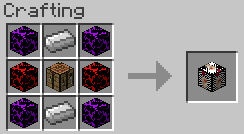
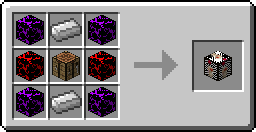
Clickable crafting grids

diff --git a/docs/blocks/synthesistable.md b/docs/blocks/synthesistable.md
@@ -10,13 +10,22 @@ The synthesis table is an essential block in Kingdom Keys, used to create almost
 
 They can be crafted like so:
 
-![Crafting](../images/crafting/synthesis_table.png)
-
-| |Crafting |
-:- | :-: | -:
-[Hard Blox](hardblox.md)|[Iron Ingot](http://minecraft.gamepedia.com/Iron_Ingot)|[Hard Blox](hardblox.md)
-[Normal Blox](normalblox.md)|[Crafting Table](http://minecraft.gamepedia.com/Crafting_Table)|[Normal Blox](normalblox.md)
-[Hard Blox](hardblox.md)|[Iron Ingot](http://minecraft.gamepedia.com/Iron_Ingot)|[Hard Blox](hardblox.md)
+<img src="../images/crafting/synthesis_table.png" usemap="#items">
+<map name="items">
+    <area shape="rect" coords="14,14,46,46" href="hardblox">
+    <area shape="rect" coords="50,14,82,46" href="http://minecraft.gamepedia.com/Iron_Ingot">
+    <area shape="rect" coords="86,14,118,46" href="hardblox">
+    
+    <area shape="rect" coords="14,50,46,82" href="normalblox">
+    <area shape="rect" coords="50,50,82,82" href="http://minecraft.gamepedia.com/Crafting_Table">
+    <area shape="rect" coords="86,50,118,82" href="normalblox">
+    
+    <area shape="rect" coords="14,86,46,118" href="hardblox">
+    <area shape="rect" coords="50,86,82,118" href="http://minecraft.gamepedia.com/Iron_Ingot">
+    <area shape="rect" coords="86,86,118,118" href="hardblox">
+    
+    <area shape="rect" coords="194,42,242,90" href="synthesistable">
+</map>
 
 ## Interface
 

diff --git a/docs/blocks/blastblox.md b/docs/blocks/blastblox.md
@@ -24,9 +24,3 @@ The Blast Blox is a Bug Blox which acts similarly to TNT, however it is far more
     
     <area shape="rect" coords="194,42,242,90" href="blastblox">
 </map>
-
-| |Crafting |
-:- | :-: | -:
-[Normal Blox](normalblox.md)|[Lava Bucket](http://minecraft.gamepedia.com/Lava)|[Normal Blox](normalblox.md)
-[Normal Blox](normalblox.md)|[TNT](http://minecraft.gamepedia.com/TNT)|[Normal Blox](normalblox.md)
-[Normal Blox](normalblox.md)|[Normal Blox](normalblox.md)|[Normal Blox](normalblox.md)
